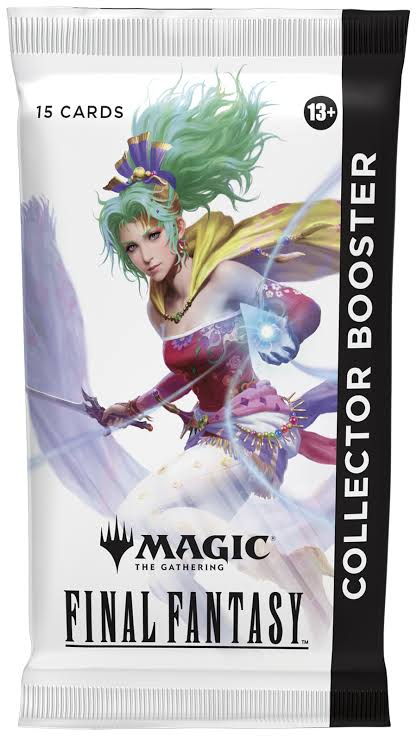
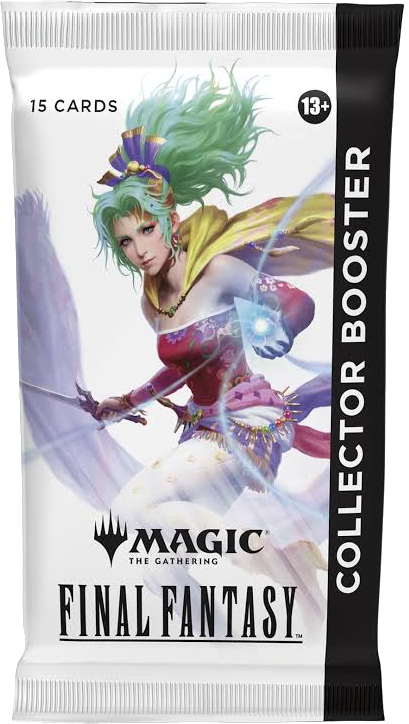
feat: buy 10 packs (+1 free); cut-out pack images
The Packs tab can buy ten boosters at once for an eleventh free, charged
and opened in one server transaction; the packs open one after another
with a skip, then one summary. The pack photos' white background is cut
away (transparent PNGs) and the shadow follows the pack. Records the
Store tab and finish-visual plans.

diff --git a/packages/client/src/packs/PacksTab.tsx b/packages/client/src/packs/PacksTab.tsx
@@ -9,7 +9,7 @@ import { ECONOMY } from '@nexus/server/economy';
 import { accessToken, showShards, ShardIcon } from '../account/AccountBar.tsx';
 import { DecksView } from './DecksView.tsx';
 import { browse, finishText, isUnbuilt, PRECON_CARDS, SETS, SORTS, type Show, type SortBy } from './browse.ts';
-import { addPack, buyPack, fetchCollection, owned, type Collection } from './collection.ts';
+import { addPack, buyPacks, fetchCollection, owned, type Collection } from './collection.ts';
 import { sound, soundOn, setSoundOn } from './sound.ts';
 import './packs.css';
 
@@ -40,7 +40,13 @@ const PACKS: { kind: PackKind; title: string; blurb: string; art: string; ready:
 /** The Magic card back, from Scryfall's image servers. */
 const CARD_BACK = 'https://backs.scryfall.io/large/0/a/0aeebaf5-8c7d-4636-9e82-8c27447861f7.jpg';
 
-type View = { kind: 'shop' } | { kind: 'open'; pack: Pack; fresh: boolean[] } | { kind: 'summary'; pack: Pack; fresh: boolean[] } | { kind: 'collection' } | { kind: 'decks' };
+/** One opened pack and which of its pulls were new printings. */
+interface Opened {
+  pack: Pack;
+  fresh: boolean[];
+}
+
+type View = { kind: 'shop' } | { kind: 'open'; opened: Opened[]; index: number } | { kind: 'summary'; opened: Opened[] } | { kind: 'collection' } | { kind: 'decks' };
 
 export function PacksTab() {
   const [mod, setMod] = useState<Boosters | null>(null);
@@ -62,18 +68,24 @@ export function PacksTab() {
       .then(setCollection, (e: Error) => setProblem(e.message === 'Failed to fetch' ? 'Could not reach the game server. Is it running (npm run server)?' : e.message));
   }, []);
 
-  const open = async (kind: PackKind) => {
+  const open = async (kind: PackKind, count: 1 | 10 = 1) => {
     if (!collection || busy) return;
     setBusy(true);
     setProblem(null);
     try {
       const token = await accessToken();
       if (!token) throw new Error('Sign in first.');
-      const { pack, balance } = await buyPack(token, kind);
+      const { packs, balance } = await buyPacks(token, kind, count);
       showShards(balance);
-      const { collection: next, fresh } = addPack(collection, pack);
+      // Each pack's NEW badges count the packs opened before it.
+      let next = collection;
+      const opened = packs.map((pack) => {
+        const r = addPack(next, pack);
+        next = r.collection;
+        return { pack, fresh: r.fresh };
+      });
       setCollection(next);
-      setView({ kind: 'open', pack, fresh });
+      setView({ kind: 'open', opened, index: 0 });
     } catch (e) {
       setProblem(e instanceof Error && e.message !== 'Failed to fetch' ? e.message : 'Could not reach the game server.');
       setView({ kind: 'shop' });
@@ -112,16 +124,31 @@ export function PacksTab() {
       </div>
 
       {problem && view.kind === 'shop' && <p className="account-error">{problem}</p>}
-      {view.kind === 'shop' && <Shop mod={mod} busy={busy} onOpen={(k) => void open(k)} onOdds={setOdds} />}
+      {view.kind === 'shop' && <Shop mod={mod} busy={busy} onOpen={(k, n) => void open(k, n)} onOdds={setOdds} />}
       {view.kind === 'open' && (
-        <Opening pack={view.pack} fresh={view.fresh} art={packArt(mod, view.pack.kind)} onDone={() => setView({ kind: 'summary', pack: view.pack, fresh: view.fresh })} />
+        <>
+          {view.opened.length > 1 && (
+            <div className="pack-queue">
+              <span>
+                Pack {view.index + 1} of {view.opened.length}
+              </span>
+              <button onClick={() => setView({ kind: 'summary', opened: view.opened })}>Skip to summary</button>
+            </div>
+          )}
+          <Opening
+            key={view.index}
+            pack={view.opened[view.index]!.pack}
+            fresh={view.opened[view.index]!.fresh}
+            art={packArt(mod, view.opened[view.index]!.pack.kind)}
+            onDone={() => setView(view.index + 1 < view.opened.length ? { ...view, index: view.index + 1 } : { kind: 'summary', opened: view.opened })}
+          />
+        </>
       )}
       {view.kind === 'summary' && (
         <Summary
-          pack={view.pack}
-          fresh={view.fresh}
+          opened={view.opened}
           onPreview={setPreview}
-          onAgain={() => void open(view.pack.kind)}
+          onAgain={() => void open(view.opened[0]!.pack.kind)}
           onCollection={() => setView({ kind: 'collection' })}
           onShop={() => setView({ kind: 'shop' })}
         />
@@ -144,7 +171,7 @@ export function PacksTab() {
 // Choosing a pack
 // ---------------------------------------------------------------------------
 
-function Shop({ mod, busy, onOpen, onOdds }: { mod: Boosters; busy: boolean; onOpen: (k: PackKind) => void; onOdds: (k: PackKind) => void }) {
+function Shop({ mod, busy, onOpen, onOdds }: { mod: Boosters; busy: boolean; onOpen: (k: PackKind, count: 1 | 10) => void; onOdds: (k: PackKind) => void }) {
   return (
     <div className="pack-shop">
       {PACKS.map((p) => {
@@ -157,8 +184,11 @@ function Shop({ mod, busy, onOpen, onOdds }: { mod: Boosters; busy: boolean; onO
             <div className="pack-tile-buttons">
               {p.ready ? (
                 <>
-                  <button className="primary" disabled={busy} onClick={() => onOpen(p.kind)}>
+                  <button className="primary" disabled={busy} onClick={() => onOpen(p.kind, 1)}>
                     Buy and open <ShardIcon size={16} /> {PRICES[p.kind]}
+                  </button>
+                  <button disabled={busy} title="Ten packs and one more free" onClick={() => onOpen(p.kind, 10)}>
+                    Buy 10 (+1 free) <ShardIcon size={16} /> {(PRICES[p.kind] * 10).toLocaleString()}
                   </button>
                   <button onClick={() => onOdds(p.kind)}>Pack odds</button>
                 </>
@@ -386,36 +416,41 @@ function PullImage({ pull, size = 'normal' }: { pull: Pull; size?: 'small' | 'no
 // ---------------------------------------------------------------------------
 
 function Summary({
-  pack,
-  fresh,
+  opened,
   onPreview,
   onAgain,
   onCollection,
   onShop,
 }: {
-  pack: Pack;
-  fresh: boolean[];
+  opened: Opened[];
   onPreview: (c: BoosterCard | null) => void;
   onAgain: () => void;
   onCollection: () => void;
   onShop: () => void;
 }) {
-  const order = revealOrder(pack);
+  const name = opened[0]!.pack.kind === 'play' ? 'Play Booster' : 'Collector Booster';
+  const newCount = opened.reduce((n, o) => n + o.fresh.filter(Boolean).length, 0);
   return (
     <div className="pack-summary">
-      <h2>Your {pack.kind === 'play' ? 'Play Booster' : 'Collector Booster'}</h2>
-      <div className="summary-grid">
-        {order.map((i) => {
-          const p = pack.cards[i]!;
-          return (
-            <div key={i} className={`summary-card hype-${p.hype}`} onMouseEnter={() => onPreview(p.card)} onMouseLeave={() => onPreview(null)}>
-              <PullImage pull={p} />
-              {fresh[i] && <span className="new-badge">NEW</span>}
-              <span className="summary-slot">{p.finish === 'nonfoil' || p.slot.toLowerCase().includes(p.finish) ? p.slot : `${p.slot} (${p.finish})`}</span>
-            </div>
-          );
-        })}
-      </div>
+      <h2>{opened.length === 1 ? `Your ${name}` : `Your ${opened.length} ${name}s`}</h2>
+      {opened.length > 1 && <p className="fineprint">{newCount} new {newCount === 1 ? 'card' : 'cards'} for your collection.</p>}
+      {opened.map(({ pack, fresh }, n) => (
+        <div key={n} className="summary-pack">
+          {opened.length > 1 && <h3>Pack {n + 1}</h3>}
+          <div className="summary-grid">
+            {revealOrder(pack).map((i) => {
+              const p = pack.cards[i]!;
+              return (
+                <div key={i} className={`summary-card hype-${p.hype}`} onMouseEnter={() => onPreview(p.card)} onMouseLeave={() => onPreview(null)}>
+                  <PullImage pull={p} />
+                  {fresh[i] && <span className="new-badge">NEW</span>}
+                  <span className="summary-slot">{p.finish === 'nonfoil' || p.slot.toLowerCase().includes(p.finish) ? p.slot : `${p.slot} (${p.finish})`}</span>
+                </div>
+              );
+            })}
+          </div>
+        </div>
+      ))}
       <div className="summary-buttons">
         <button className="primary big" onClick={onAgain}>
           Open another

diff --git a/packages/server/src/server.ts b/packages/server/src/server.ts
@@ -12,7 +12,7 @@ import type { AccountService, AccountUser } from './accounts.ts';
 import { randomInt, randomUUID } from 'node:crypto';
 import { openPack, type PackKind } from '@nexus/cards/boosters';
 import { DeckInput, deckProblem } from './collection.ts';
-import { ECONOMY } from './economy.ts';
+import { ECONOMY, packsForPurchase } from './economy.ts';
 import { STARTER_CHOICES, STARTER_REF, claimStarter } from './starter.ts';
 
 /** Biggest message a browser may send. Actions are small. */
@@ -99,8 +99,9 @@ function readJson(req: IncomingMessage): Promise<unknown> {
  * - GET /api/decks, POST /api/decks (new, or changed by id), DELETE /api/decks/<id>.
  * - GET /api/starter: whether the free starter precon is still to pick, and the choices;
  *   POST /api/starter {precon}: grants it (once per account) and saves it as a deck.
- * - POST /api/packs/open {kind}: buys one booster, opens it on the server and
- *   adds its cards to the collection, all at once.
+ * - POST /api/packs/open {kind, count}: buys 1 or 10 boosters (10 come with a
+ *   free bonus pack), opens them on the server and adds their cards to the
+ *   collection, all at once.
  */
 async function apiRoute(req: IncomingMessage, res: ServerResponse, path: string, accounts: AccountService | null): Promise<void> {
   try {
@@ -148,17 +149,20 @@ const PACK_PRICES: Record<PackKind, number> = { play: ECONOMY.playBoosterPrice, 
 const cryptoRandom = () => randomInt(2 ** 48 - 1) / 2 ** 48;
 
 async function openPackRoute(res: ServerResponse, user: AccountUser, accounts: AccountService, body: unknown): Promise<void> {
-  const kind = (body as { kind?: unknown } | undefined)?.kind;
+  const { kind, count = 1 } = (body ?? {}) as { kind?: unknown; count?: unknown };
   if (kind !== 'play' && kind !== 'collector') return json(res, 400, { error: 'Choose a Play or Collector Booster.' });
+  if (count !== 1 && count !== 10) return json(res, 400, { error: 'Buy 1 or 10 packs at a time.' });
   await accounts.ensure(user);
-  // The same pack as the Packs tab has always opened, Scene Box extras included.
-  const pack = openPack(kind, cryptoRandom);
-  const cards = pack.cards.map((p) => ({ id: p.card.id, finish: p.finish, count: 1 }));
+  const { paid, total } = packsForPurchase(count);
+  const price = paid * PACK_PRICES[kind];
+  // The same packs as the Packs tab has always opened, Scene Box extras included.
+  const packs = Array.from({ length: total }, () => openPack(kind, cryptoRandom));
+  const cards = packs.flatMap((pack) => pack.cards.map((p) => ({ id: p.card.id, finish: p.finish, count: 1 })));
   try {
-    const { balance } = await accounts.grantCards(user.id, { kind: 'pack_open', ref: randomUUID(), cost: PACK_PRICES[kind], cards });
-    return json(res, 200, { pack, balance });
+    const { balance } = await accounts.grantCards(user.id, { kind: 'pack_open', ref: randomUUID(), cost: price, cards });
+    return json(res, 200, { packs, balance });
   } catch (e) {
-    if (/insufficient/.test(String(e))) return json(res, 402, { error: `You need ${PACK_PRICES[kind]} Aether Shards for this pack.` });
+    if (/insufficient/.test(String(e))) return json(res, 402, { error: `You need ${price} Aether Shards for ${count === 1 ? 'this pack' : 'these packs'}.` });
     throw e;
   }
 }

diff --git a/packages/server/test/collection.test.ts b/packages/server/test/collection.test.ts
@@ -109,7 +109,9 @@ describe('buying packs', () => {
     const { accounts, call } = await withAccounts();
     const r = await call('token-alice', '/api/packs/open', 'POST', { kind: 'play' });
     expect(r.status).toBe(200);
-    const { pack, balance } = await r.json();
+    const { packs, balance } = await r.json();
+    expect(packs).toHaveLength(1);
+    const pack = packs[0];
     expect(balance).toBe(ECONOMY.welcomeGrant - ECONOMY.playBoosterPrice);
     expect(accounts.accounts.get('alice-id')!.shards).toBe(balance);
     const owned = await accounts.collection('alice-id');
@@ -162,5 +164,26 @@ describe('the free starter precon', () => {
     const { call } = await withAccounts();
     for (const precon of ['Cloud', '', 5, undefined]) expect((await call('token-alice', '/api/starter', 'POST', { precon })).status).toBe(400);
     expect((await (await call('token-alice', '/api/starter')).json()).claimed).toBe(false);
+  });
+});
+
+describe('buying ten packs', () => {
+  it('charges for ten, opens eleven (one free) and adds every card at once', async () => {
+    const { accounts, call } = await withAccounts();
+    const r = await call('token-alice', '/api/packs/open', 'POST', { kind: 'play', count: 10 });
+    expect(r.status).toBe(200);
+    const { packs, balance } = await r.json();
+    expect(packs).toHaveLength(11);
+    expect(balance).toBe(ECONOMY.welcomeGrant - 10 * ECONOMY.playBoosterPrice);
+    const total = packs.reduce((n: number, p: { cards: unknown[] }) => n + p.cards.length, 0);
+    expect((await accounts.collection('alice-id')).reduce((n, c) => n + c.count, 0)).toBe(total);
+  });
+
+  it('refuses ten Collector Boosters it can’t afford, and other counts', async () => {
+    const { accounts, call } = await withAccounts();
+    expect((await call('token-alice', '/api/packs/open', 'POST', { kind: 'collector', count: 10 })).status).toBe(402);
+    expect(accounts.accounts.get('alice-id')!.shards).toBe(ECONOMY.welcomeGrant);
+    expect(await accounts.collection('alice-id')).toEqual([]);
+    for (const count of [0, 2, 11, -10, '10']) expect((await call('token-alice', '/api/packs/open', 'POST', { kind: 'play', count })).status).toBe(400);
   });
 });

diff --git a/packages/client/src/packs/collection.ts b/packages/client/src/packs/collection.ts
@@ -40,15 +40,15 @@ export async function fetchCollection(token: string): Promise<Collection> {
   return c;
 }
 
-/** Buys and opens one booster on the server. */
-export async function buyPack(token: string, kind: PackKind): Promise<{ pack: Pack; balance: number }> {
+/** Buys and opens 1 or 10 boosters on the server (10 come with a free one). */
+export async function buyPacks(token: string, kind: PackKind, count: 1 | 10): Promise<{ packs: Pack[]; balance: number }> {
   const res = await fetch('/api/packs/open', {
     method: 'POST',
     headers: { Authorization: `Bearer ${token}`, 'Content-Type': 'application/json' },
-    body: JSON.stringify({ kind }),
+    body: JSON.stringify({ kind, count }),
   });
-  if (!res.ok) throw await failure(res, 'The pack could not be opened. Try again.');
-  return (await res.json()) as { pack: Pack; balance: number };
+  if (!res.ok) throw await failure(res, 'The packs could not be opened. Try again.');
+  return (await res.json()) as { packs: Pack[]; balance: number };
 }
 
 export type DeckFormat = 'commander' | 'limited' | 'constructed';

diff --git a/packages/client/src/packs/packs.css b/packages/client/src/packs/packs.css
@@ -499,6 +499,18 @@
   text-align: right;
   width: 64px;
 }
+.pack-queue {
+  display: flex;
+  justify-content: center;
+  align-items: center;
+  gap: 12px;
+  margin-bottom: 8px;
+  font-size: 13px;
+}
+.summary-pack h3 {
+  margin: 14px 0 6px;
+  font-size: 14px;
+}
 .binder-head {
   display: flex;
   flex-direction: column;
@@ -738,9 +750,13 @@
 }
 
 /* A real pack photo, filling the pack's shape. */
+/* The pack photos are cut out (transparent around the pack), so the shadow
+   follows the pack's own outline instead of a box. */
 .pack-photo {
   background: transparent;
-  box-shadow: 0 18px 40px rgba(0, 0, 0, 0.55);
+  box-shadow: none;
+  border-radius: 0;
+  overflow: visible;
 }
 .pack-photo img {
   position: absolute;
@@ -748,4 +764,5 @@
   width: 100%;
   height: 100%;
   object-fit: contain;
+  filter: drop-shadow(0 16px 22px rgba(0, 0, 0, 0.6));
 }

diff --git a/docs/economy.md b/docs/economy.md
@@ -52,7 +52,7 @@ five bot matches a day ≈ 2,200 a week (about 22).
 | E1c | **Done (2026-10-29):** the free precon (`/api/starter`, `StarterPick.tsx`) and the guided tour (`Tour.tsx`). **First sign-in** (user requirement, 2026-10-29): a guided tour of the app that pops up step by step on a player's first sign-in (menu tabs, account and shards, Packs, Draft, Online, deckbuilding), skippable and replayable; and a free starter: the new player picks one of the four Final Fantasy Commander precons, granted once to their collection and saved as a deck (idempotent, server-side, like the welcome grant). Needs E1b. |
 | E2 | Bot games on the server, so their results can be rewarded. |
 | E3 | Match rewards and daily/weekly quests, with the reward breakdown after each match. |
-| E4 | The booster store: Play and Collector Boosters, bulk bonus, confirmation, shortfall message; opened packs go to the account's collection. |
+| E4 | **Boosters done (2026-10-30)** in the Packs tab: 1 or 10 (+1 free), shortfall message, opened packs go to the account's collection. **Store tab (user requirement 2026-10-30):** a separate Store tab, divided by set, where players buy exclusive printings directly: for Final Fantasy, every Chocobo Track foil card (lands included). Prices are set by the user later (until then the store shows the cards and "Price coming soon"). Bought printings go to the collection in the chosen finish, charged in one server transaction like packs. |
 | E5 | Paid event entry and prizes, with the online draft events (sealed.md, S3). |
 
 ## Hosting (free tiers, checked 2026-10-29)

diff --git a/docs/packs.md b/docs/packs.md
@@ -2,7 +2,7 @@
 
 The menu's **Packs** tab opens Final Fantasy booster packs for collecting.
 Each pack costs Aether Shards (100 for a Play Booster, 500 for a Collector
-Booster); the game server opens it and adds the cards to your account's
+Booster; buying 10 at once adds an 11th free); the game server opens it and adds the cards to your account's
 collection. Pulled cards don't change the Starter Kit and precon games.
 
 ## Card data
@@ -131,3 +131,14 @@ come after Final Fantasy testing is complete.
   "Commander decks" group), with counts per finish on hover.
 - Code: `packages/client/src/packs/browse.ts` (filtering and sorting,
   tested in `packages/client/test/collection-browse.test.ts`).
+
+## Finishes everywhere (planned, user requirement 2026-10-30)
+
+- The collection and the deck editor show each card's finish visibly:
+  non-foil, foil, surge foil, Chocobo Track foil (and later sets' own,
+  such as fracture foil), with the pack opening's shine: rainbow for surge,
+  gold for Chocobo Track.
+- The same shine shows during games, but only for a finish the player owns:
+  a game's finishes come from the player's saved deck, which the server
+  checks against their collection. Local drafts (not saved to accounts
+  yet) and the Starter Kits play non-foil.

diff --git a/docs/development-update.md b/docs/development-update.md
@@ -5,6 +5,18 @@ Longer-lived design choices go in [decisions.md](decisions.md).
 
 ## 2026-10-30
 
+### Buy 10 packs; cut-out pack images
+
+- The Packs tab has "Buy 10 (+1 free)" for each booster: ten packs' price
+  for eleven packs (the bulk bonus), charged and added to the collection in
+  one server transaction (`POST /api/packs/open {kind, count: 10}`). The
+  packs open one after another (Skip to summary jumps ahead), then one
+  summary shows every pack with the NEW cards marked.
+- The two pack photos had a white box around them. They're now cut out
+  (the white background flood-filled away from the edges, so the packs' own
+  white wrappers stay) and saved as transparent PNGs; the shadow follows the
+  pack's outline.
+
 ### S4 group 4: 24 simple set cards
 
 - Dark Ritual, Counterspell, Lightning Bolt, Dovin's Veto, Eject, Wall of
